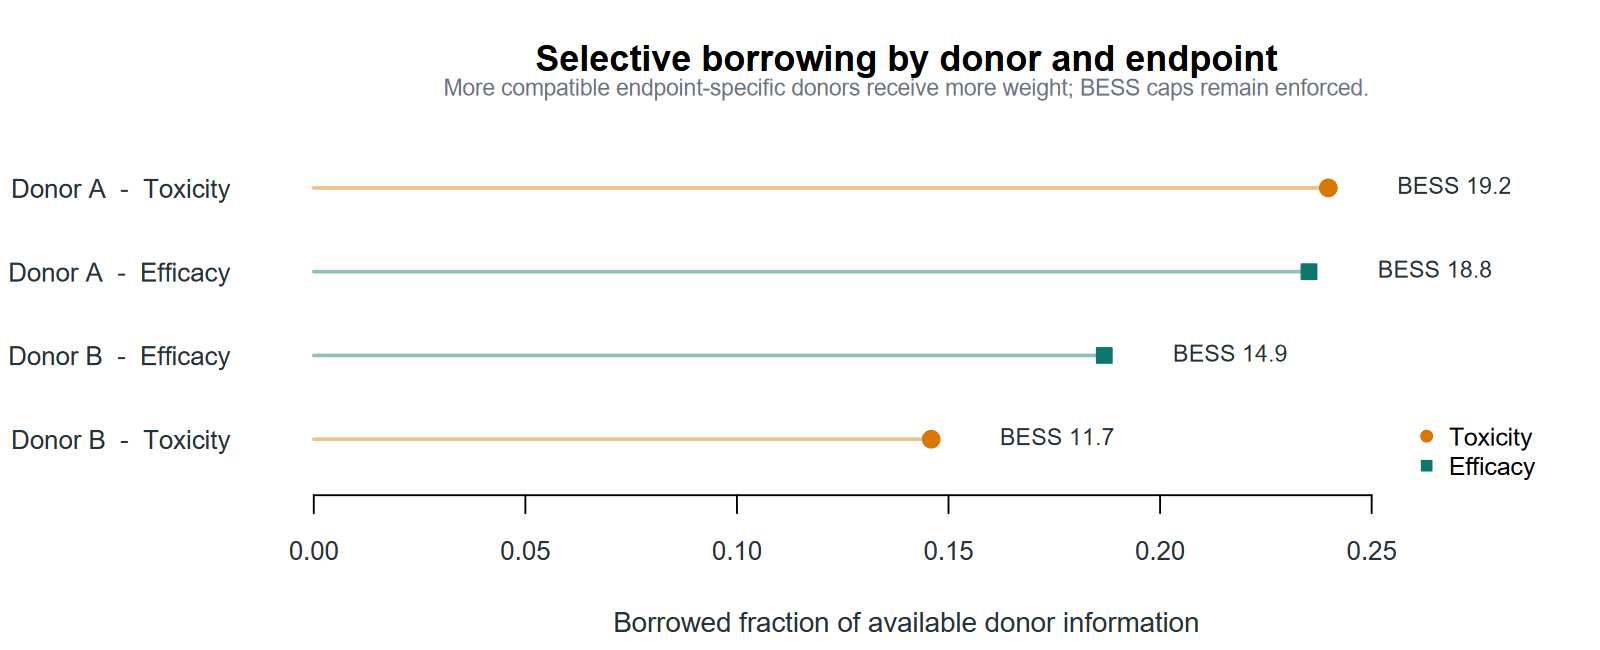
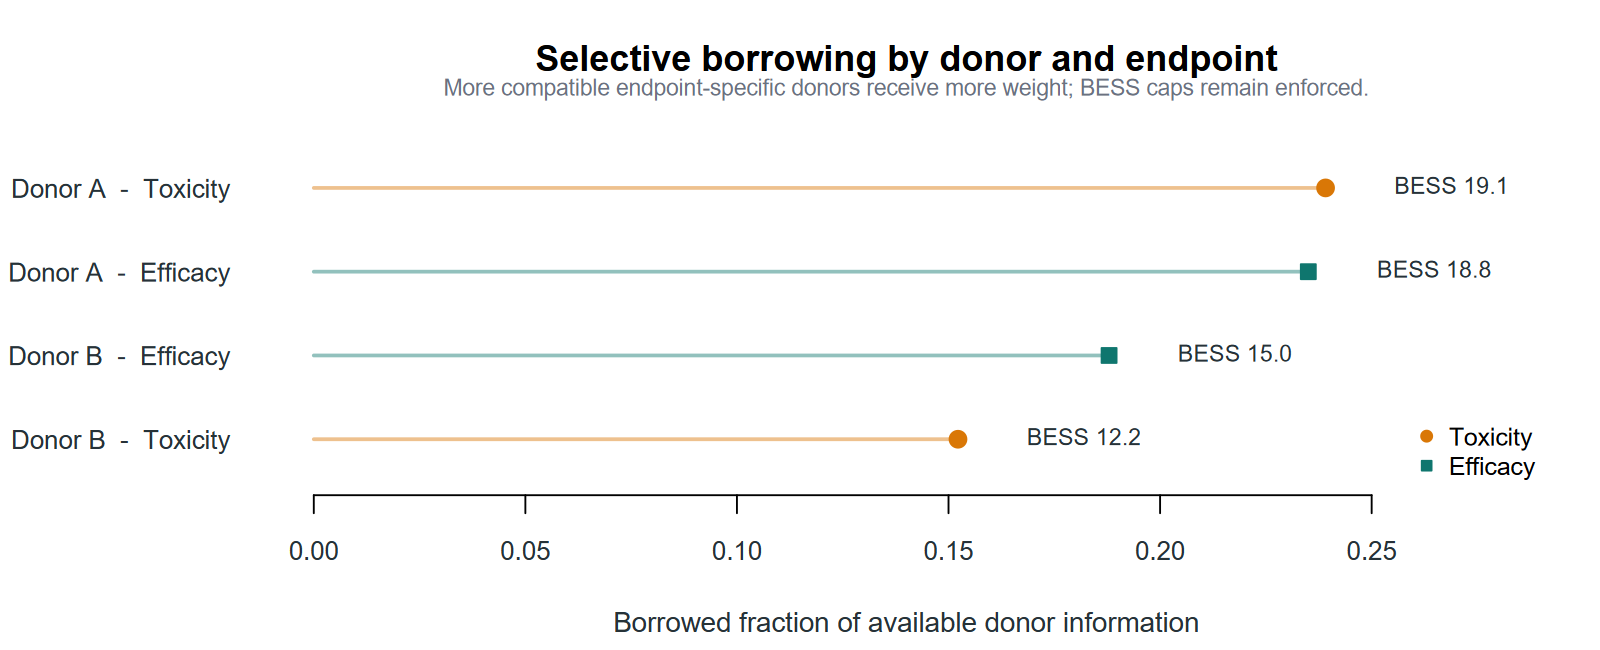
Align package inputs with SAFE-AB methodology

diff --git a/README.md b/README.md
@@ -70,6 +70,19 @@ predict(
 recommend_dose(fit, toxicity_limit = 0.30)
 ```
 
+When toxicity and efficacy have different eligible historical sources, supply
+endpoint-specific donor sets:
+
+```r
+fit <- fit_safeab(
+  dat,
+  donors = list(
+    toxicity = c("donor_A", "donor_B"),
+    efficacy = "donor_A"
+  )
+)
+```
+
 ## Plot model outputs
 
 ```r
@@ -118,8 +131,14 @@ recommendation$dose_table
 ## Input format
 
 `safeab_data()` accepts one row per study-dose combination with aggregated
-binary event counts and totals. Original doses can be range-standardized,
-log-range-standardized, or supplied directly on the standardized scale.
+binary event counts and totals. By default, ordered doses are mapped separately
+within each study to equally spaced positions on `[0, 1]`, matching the SAFE-AB
+study-specific rank scale. Pooled range, pooled log-range, and already
+standardized dose inputs remain available through `dose_transform`.
+
+With the default rank transformation, dose recommendations remain restricted to
+doses observed in the target study. Use `dose_scale = "standardized"` when
+requesting predictions on an arbitrary standardized grid.
 
 Use `?safeab_data`, `?fit_safeab`, and `?recommend_dose` for complete argument
 definitions and return values.
